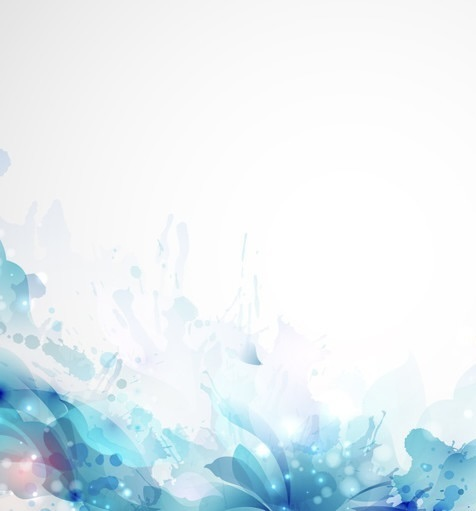
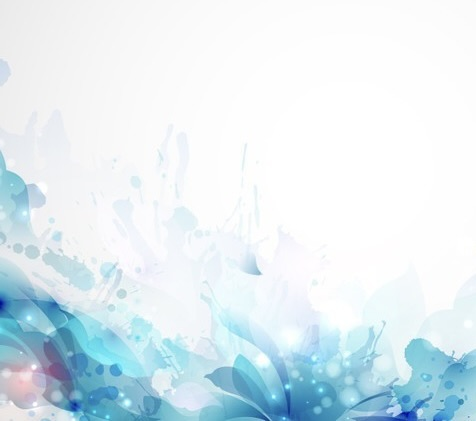
[home] add styling

diff --git a/public/styles/styles.css b/public/styles/styles.css
@@ -1,9 +1,10 @@
 :root {
     --body-width: 1000px;
 
-	--page-background-color: whitesmoke ;
+    --page-background-color: whitesmoke ;
 
-    --page-container-addl-margin: 10px;
+    /* --page-container-addl-margin: 10px; */
+    --page-container-addl-margin: 5px;
 
     --portfolio-container-margin: 140px;
 
@@ -11,7 +12,9 @@
     --portfolio-card-padding: 20px;
     --portfolio-card-margin: 25px;
     --portfolio-card-perc-height: 90%;
-    --portfolio-card-border: lightgray solid 1px;
+    /* --portfolio-card-border: lightgray solid 1px; */
+    --portfolio-card-border: lightgray solid 3px;
+    --portfolio-card-border-inner-width: 1px;
 
     --portfolio-card-opacity: 0.75;
     --portfolio-card-transition-duration: .7s;
@@ -39,6 +42,10 @@ header {
     text-align: center;
 }
 
+main {
+    position: relative;
+}
+
 .page-container {
     /* background-color: var(--page-background-color) */
     /* background-image: linear-gradient(var(--page-background-color), var(--page-background-color), var(--page-background-color), transparent); */
@@ -46,28 +53,28 @@ header {
     border-radius: 10px;
     background-image: url('/back-art-2.jpg');
     background-size: cover;
-	padding-top: calc(var(--portfolio-card-margin) + var(--page-container-addl-margin));
+    padding-top: calc(var(--portfolio-card-margin) + var(--page-container-addl-margin));
     padding-bottom: calc(var(--page-container-addl-margin) + 5px);
     /* padding-top: var(--page-container-margin-top-bottom); */
 
-	/* border: rgba(0, 0, 0, 0.855); */ 
-	/* border-bottom-color: transparent; */
+    /* border: rgba(0, 0, 0, 0.855); */ 
+    /* border-bottom-color: transparent; */
     /* border-color: rgba(0, 0, 0, 0.855); */
     /* border-color: transparent; */
-	/* border-image: linear-gradient(rgba(0, 0, 0, 0.855), rgba(0, 0, 0, 0.5 ), rgba(0, 0, 0, 0.1 )) 1;  */
+    /* border-image: linear-gradient(rgba(0, 0, 0, 0.855), rgba(0, 0, 0, 0.5 ), rgba(0, 0, 0, 0.1 )) 1;  */
     /* border-image: linear-gradient(to bottom, transparent, transparent); */
     /* border-color: black; */
     /* border-color: transparent; */
     border-color: rgba(0, 0, 0, 0.855);
-	border-style: solid; 
-	border-width: 15px;
+    border-style: solid; 
+    border-width: 15px;
     /* border-bottom-color: transparent; */
 }
 
 .header-intro a {
-	background: linear-gradient(to right, #f5ce62, #e43603, #fa7199, darkred);
-	-webkit-background-clip: text;
-	-webkit-text-fill-color: transparent;
+    background: linear-gradient(to right, #f5ce62, #e43603, #fa7199, darkred);
+    -webkit-background-clip: text;
+    -webkit-text-fill-color: transparent;
 }
 
 /* PORTFOLIO CONTAINER, PORTFOLIO CARD */
@@ -138,6 +145,8 @@ header {
 
 .card-image {
     /* border: var(--portfolio-card-border); */
+    border: var(--portfolio-card-border);
+    border-width: var(--portfolio-card-border-inner-width);
     z-index: -1;
 }
 
@@ -178,7 +187,7 @@ header {
     background-color: whitesmoke;
 
     background-image: url('/back-art-3.jpg');
-	background-size: cover;
+    background-size: cover;
 }
 
 .card-info-overlay p {
@@ -221,15 +230,18 @@ header {
 @media (pointer:coarse), (pointer:none), (max-width:800px) {
     body {
         /* padding: 2vh 0; */
-        padding: 8vh 0;
+        /* padding: 8vh 0; */
+        padding: 6vh 0;
         width: 98vw;
         /* width: 98vw; */
         font-size: 6vw;
-        margin-left: 4vw;
+        /* margin-left: 4vw; */
     }
 
     header {
         padding-bottom: 2vh;
+
+
     }
 
     .header-intro {
@@ -238,6 +250,8 @@ header {
 
     .page-container {
         padding-top: 3.5vh;
+
+        background-image: url('/back-art-2-mobile.jpg');
     }
 
     /* PORTFOLIO CONTAINER, PORTFOLIO CARD */
@@ -297,3 +311,4 @@ header {
         height: fit-content;
     }
 }
+

diff --git a/util/constants.js b/util/constants.js
@@ -8,6 +8,7 @@ const RESOURCES = {
             GO: './public/images/go.png',
 		    BACK_ART: './public/images/back-art.jpg',
             BACK_ART_2: './public/images/back-art-2.jpg',
+            BACK_ART_2_MOBILE: './public/images/back-art-2-mobile.jpg',
             BACK_ART_3: './public/images/back-art-3.jpg',
         },
         PAGES: {
@@ -26,7 +27,7 @@ const RESOURCES = {
 
 const PATHS = {
     HOME: ['', '/', '/home'],
-    IMAGES: ['/smoothie.jpg', '/library.jpeg', '/go.png', '/back-art.jpg', '/back-art-2.jpg', '/back-art-3.jpg'],
+    IMAGES: ['/smoothie.jpg', '/library.jpeg', '/go.png', '/back-art.jpg', '/back-art-2.jpg', '/back-art-2-mobile.jpg', '/back-art-3.jpg'],
     SCRIPTS: ['/helpers.js', '/card-modal.js'],
     STYLES: ['/reset.css', '/styles.css'],
     STORAGE: ['/firebase/projects'],
